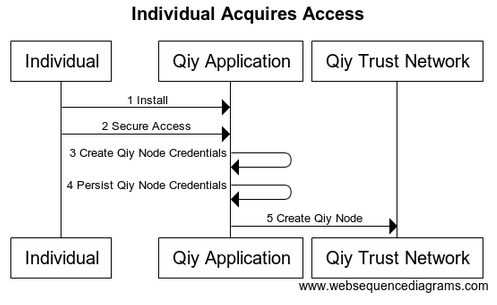
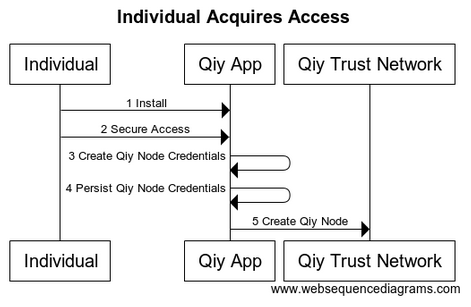
First draft for basic flow and first extension of UC01

Changed region(s): [[0.0, 0.118, 0.9809, 0.9738], [0.2378, 0.0, 0.7431, 0.0885]]

diff --git a/use-cases/UC01 Acquire Access to Qiy Trust Network.md b/use-cases/UC01 Acquire Access to Qiy Trust Network.md
@@ -10,21 +10,32 @@ This document is the use case specification for use case [UC01 Acquire Access to
 1. [Primary Actors](#primary-actors)
 1. [Preconditions](#preconditions)
 1. [Basic Flow](#basic-flow)
+	1. [The Individual installs a new Qiy App](#1-the-individual-installs-a-new-qiy-app)
+	1. [The Individual secures access to the Qiy App](#2-the-individual-secures-access-to-the-qiy-app)
+	1. [The Qiy App creates Qiy Node Credentials](#3-the-qiy-app-creates-qiy-node-credentials)
+	1. [The Qiy App persists the Qiy Node Credentials](#4-the-qiy-app-persists-the-qiy-node-credentials)
+	1. [The Qiy App requests the Qiy Trust Network to create a Qiy Node](#5-the-qiy-app-requests-the-qiy-trust-network-to-create-a-qiy-node)
 1. [Postconditions](#postconditions)
 1. [Extensions](#extensions)
-1. [Web application](#11-web-application)
-1. [Service Provider](#2-service-provider)
-1. [Qiy Application](#3-qiy-application)
-1. [Qiy Node](#4-qiy-node)
+1. [E1.1 Qiy Webapp](#e11-qiy-webapp)
+	1. [The Individual registers an account for the Qiy Webapp](#1-the-individual-registers-an-account-for-the-qiy-webapp)
+	1. [The Individual secures access to the Qiy Webapp](#2-the-individual-secures-access-to-the-qiy-webapp)
+	1. [The Qiy Webapp creates Qiy Node Credentials](#3-the-qiy-webapp-creates-qiy-node-credentials)
+	1. [The Qiy Webapp persists the Qiy Node Credentials](#4-the-qiy-webapp-persists-the-qiy-node-credentials)
+	1. [The Qiy Webapp requests the Qiy Trust Network to create a Qiy Node](#5-the-qiy-webapp-requests-the-qiy-trust-network-to-create-a-qiy-node)
+1. [E2 Service Provider](#e2-service-provider)
+1. [E3 Qiy Application](#e3-qiy-application)
+1. [E4 Qiy Node](#e4-qiy-node)
 1. [Access Provider](#5-access-provider)
 1. [Other extensions](#other-extensions)
 1. [Diagram Source Code](#diagram-source-code)
 	1. [Individual Acquires Access](#individual-acquires-access)
+	1. [Individual Acquires Access with Webapp](#individual-acquires-access-with-webapp)
 
 # Primary Actors
 
 * [Individual](../Definitions.md#individual)
-* [Qiy Application](../Definitions.md#qiy-application)
+* [Qiy App](../Definitions.md#qiy-app)
 
 # Preconditions
 
@@ -34,44 +45,47 @@ This document is the use case specification for use case [UC01 Acquire Access to
 
 [Individual](../Definitions.md#individual) acquires access to the [Qiy Trust Network](../Definitions.md#qiy-trust-network)
 * with a new [Qiy Node](../Definitions.md#qiy-node) and
-* with a new [Qiy Application](../Definitions.md#qiy-application) for smart phones.
-
-1. The [Individual](../Definitions.md#individual) installs a new [Qiy Application](../Definitions.md#qiy-application).
-2. The [Individual](../Definitions.md#individual) secures access to the [Qiy Application](../Definitions.md#qiy-application).
-3. The [Qiy Application](../Definitions.md#qiy-application) creates [Qiy Node Credentials](../Definitions.md#qiy-node-credentials).
-4. The [Qiy Application](../Definitions.md#qiy-application) persists the [Qiy Node Credentials](../Definitions.md#qiy-node-credentials).
-5. The [Qiy Application](../Definitions.md#qiy-application) requests the [Qiy Trust Network](../Definitions.md#qiy-trust-network) to create a [Qiy Node](../Definitions.md#qiy-node).
+* with a [Qiy App](../Definitions.md#qiy-app).
 
 ![Individual Acquires Access](../images/Individual_Acquires_Access_-_UC01.png)
 
+## 1. The Individual installs a new Qiy App
+## 2. The Individual secures access to the Qiy App
+## 3. The Qiy App creates Qiy Node Credentials
+## 4. The Qiy App persists the Qiy Node Credentials
+## 5. The Qiy App requests the Qiy Trust Network to create a Qiy Node
+
+
 # Postconditions
 
-1. The [Individual](../Definitions.md#individual) has exclusive access to a new [Qiy Application](../Definitions.md#qiy-application).
+1. The [Individual](../Definitions.md#individual) has exclusive access to a new [Qiy App](../Definitions.md#qiy-app).
 1. The [Individual](../Definitions.md#individual) has exclusive access to a new [Qiy Node](../Definitions.md#qiy-node).
-1. The [Qiy Application](../Definitions.md#qiy-application) has exclusive access to the [Qiy Node](../Definitions.md#qiy-node).
+1. The [Qiy App](../Definitions.md#qiy-app) has exclusive access to the [Qiy Node](../Definitions.md#qiy-node).
 
 
 # Extensions
 
-# 1.1 Web application
+# E1.1 Qiy Webapp
 
-The flow for Web applications is the same as the basic flow but for the first step:
+The flow for [Qiy Webapps](../Definitions.md#qiy-webapp) is the same as the basic flow but for the first step:
 
-1. The [Individual](../Definitions.md#individual) registers an account for the [Qiy Application](../Definitions.md#qiy-application).
-2. The [Individual](../Definitions.md#individual) secures access to the [Qiy Application](../Definitions.md#qiy-application).
-3. The [Qiy Application](../Definitions.md#qiy-application) creates [Qiy Node Credentials](../Definitions.md#qiy-node-credentials).
-4. The [Qiy Application](../Definitions.md#qiy-application) persists the [Qiy Node Credentials](../Definitions.md#qiy-node-credentials).
-5. The [Qiy Application](../Definitions.md#qiy-application) requests the [Qiy Trust Network](../Definitions.md#qiy-trust-network) to create a [Qiy Node](../Definitions.md#qiy-node).
+![Individual Acquires Access](../images/Individual_Acquires_Access_-_UC01.png)
 
-# 2 Service Provider
+## 1. The Individual registers an account for the Qiy Webapp
+## 2. The Individual secures access to the Qiy Webapp
+## 3. The Qiy Webapp creates Qiy Node Credentials
+## 4. The Qiy Webapp persists the Qiy Node Credentials
+## 5. The Qiy Webapp requests the Qiy Trust Network to create a Qiy Node
 
-tbd
-
-# 3 Qiy Application
+# E2 Service Provider
 
 tbd
 
-# 4 Qiy Node
+# E3 Qiy Application
+
+tbd
+
+# E4 Qiy Node
 
 tbd
 
@@ -91,12 +105,28 @@ Please refer to [UC08 Manage Access to Qiy Trust Network](UC08%20Manage%20Access
 title "Individual Acquires Access"
 
 participant "Individual"        as User
-participant "Qiy Application"   as App
+participant "Qiy App"           as App
 participant "Qiy Trust Network" as QTN
 
 User -> App  : 1 Install
 User -> App  : 2 Secure Access
 App  -> App  : 3 Create Qiy Node Credentials
 App  -> App  : 4 Persist Qiy Node Credentials
-App  -> QTN   : 5 Create Qiy Node
+App  -> QTN  : 5 Create Qiy Node
+```
+
+## Individual Acquires Access with Webapp
+
+```
+title "Individual Acquires Access with Webapp"
+
+participant "Individual"        as User
+participant "Qiy Webapp"           as App
+participant "Qiy Trust Network" as QTN
+
+User -> App  : 1 Register
+User -> App  : 2 Secure Access
+App  -> App  : 3 Create Qiy Node Credentials
+App  -> App  : 4 Persist Qiy Node Credentials
+App  -> QTN  : 5 Create Qiy Node
 ```

diff --git a/Definitions.md b/Definitions.md
@@ -317,6 +317,9 @@ Synonymous with [Identifier](#identifier)
 ### Public Key Infrastructure
 See https://en.wikipedia.org/wiki/Public_key_infrastructure.
 
+### Qiy App
+A [Qiy Application](#qiy-application) that can be installed on a smart phone or similar device.
+
 ### Qiy Application
 An [Application](#application) that complies with the [Qiy Scheme Policy for Applications](#qiy-scheme-policy-for-applications).
 
@@ -379,6 +382,9 @@ The basic principles, which underlie the [Qiy Scheme](#qiy-scheme) and its overa
 
 ### Qiy User
 A [Business Role](#business-role): an [Entity](#entity) that is using the [Qiy Trust Network](#qiy-trust-network).
+
+### Qiy Webapp
+A [Qiy Application](#qiy-application) that is accessible via a web browser.
 
 ### QR Code
 See https://en.wikipedia.org/wiki/QR_code.
